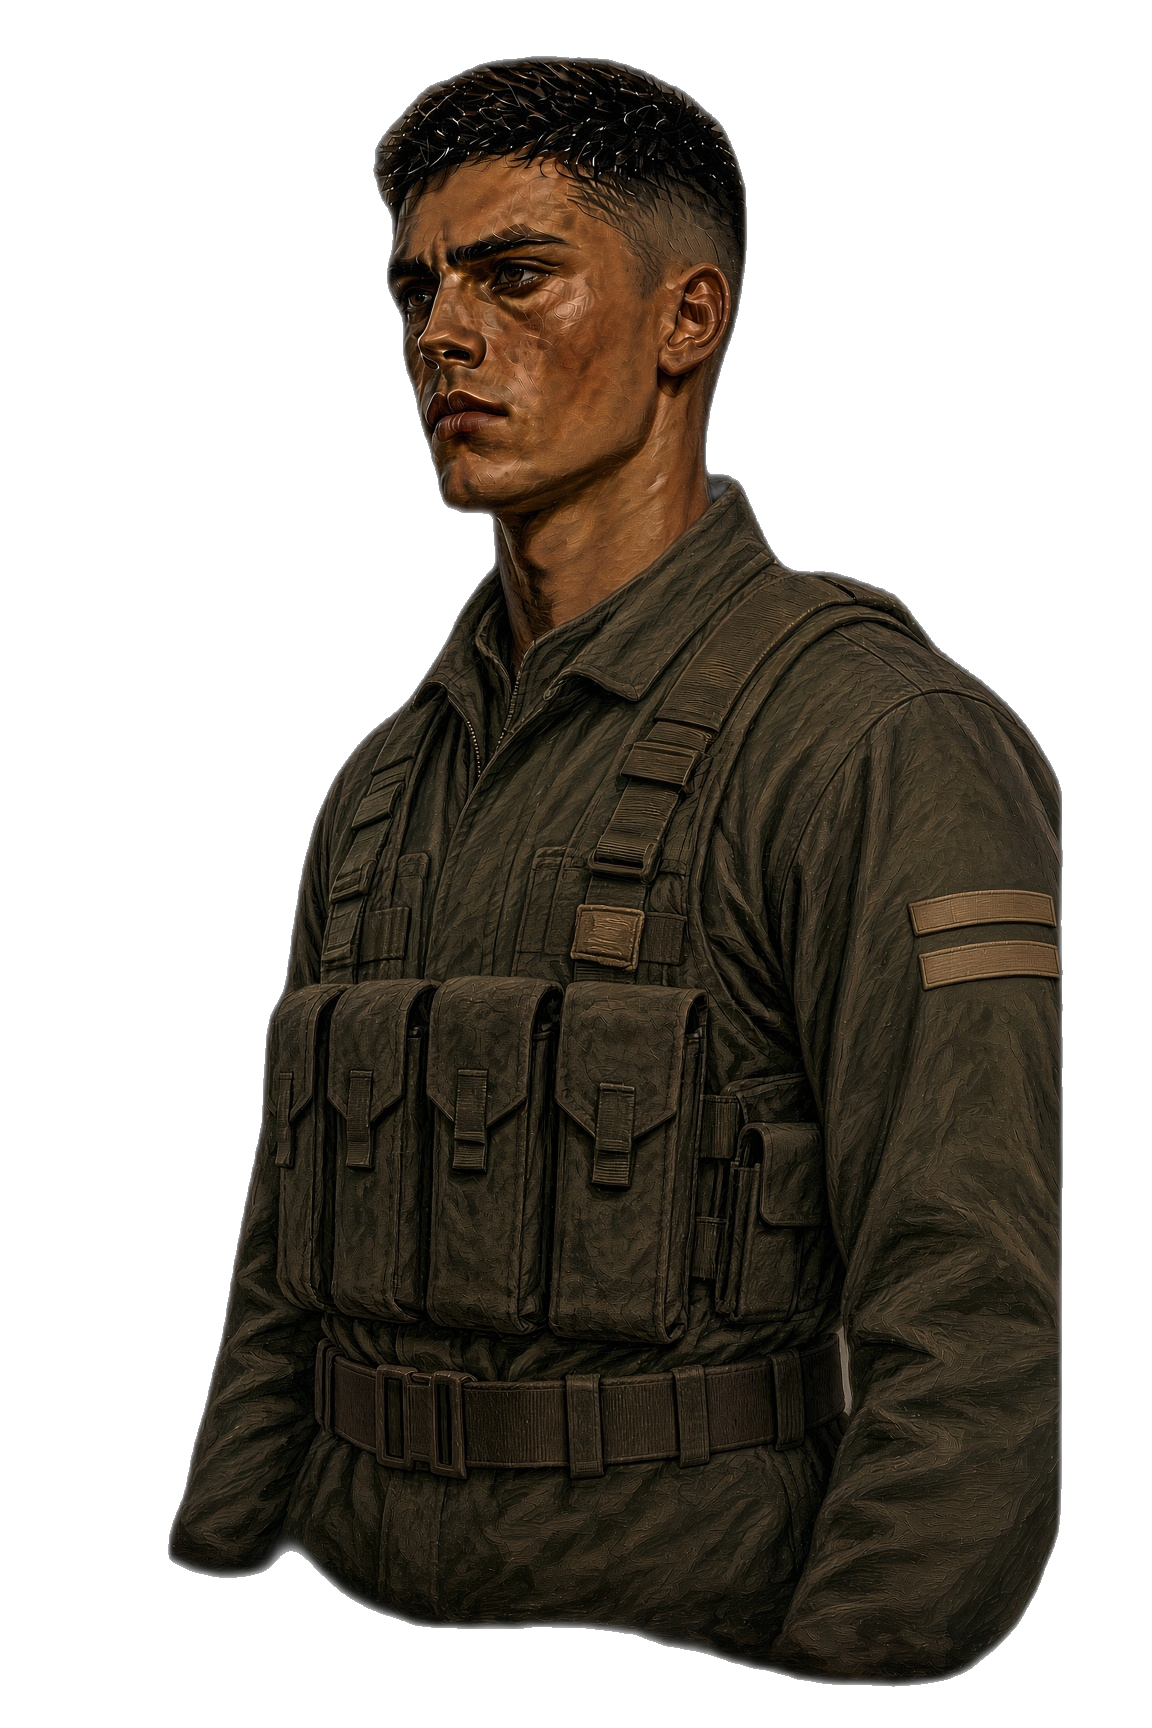
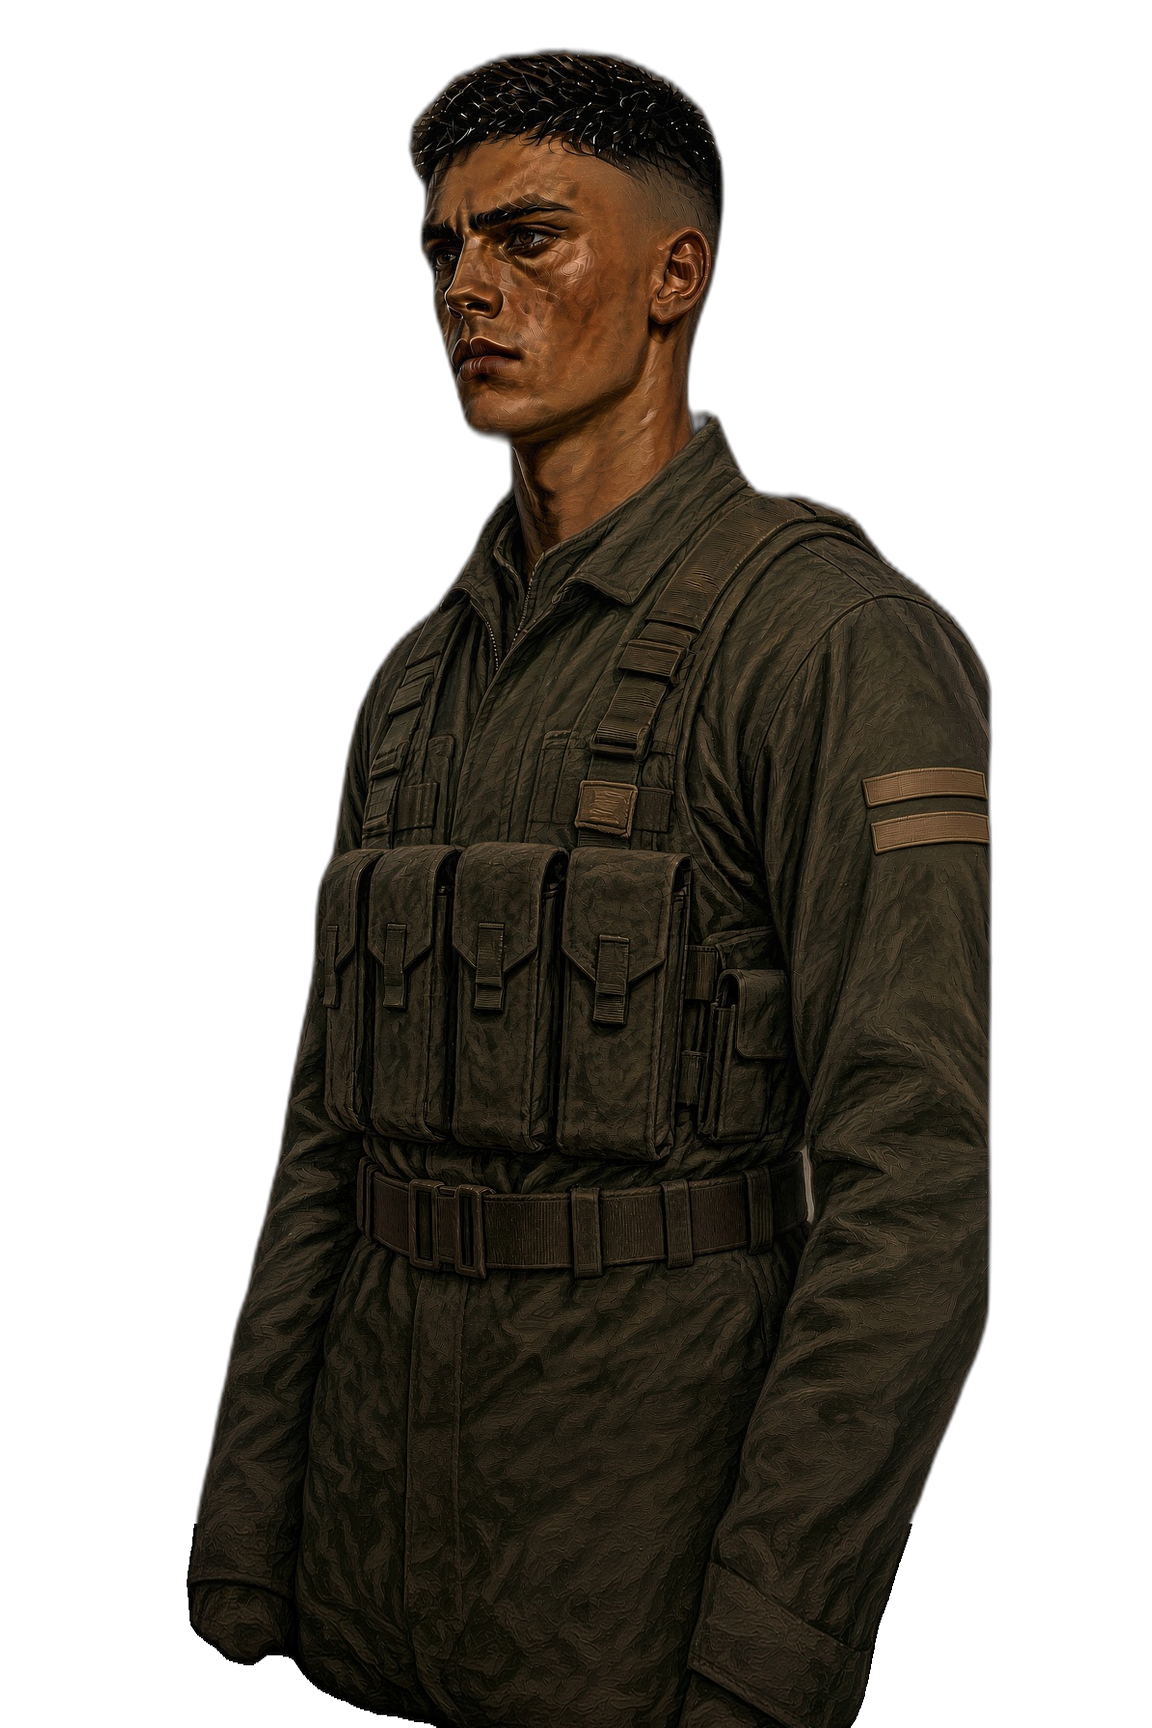
Ossar 1 und Jetzt 1: Jacke bis zum Bildrand.

Changed region(s): [[0.125, 0.0, 0.9375, 1.0]]

diff --git a/Division_Command_0.32c/web/index.html b/Division_Command_0.32c/web/index.html
@@ -614,7 +614,7 @@
   <script src="js/ai/bot.js?v=032d5"></script>
   <script src="js/ui/perf.js?v=030c"></script>
   <script src="js/ui/library.js?v=030n"></script>
-  <script src="js/ui/portraits.js?v=kit18"></script>
+  <script src="js/ui/portraits.js?v=kit19"></script>
   <script src="js/ui/app.js?v=kit2"></script>
   <script src="js/ui/hand-drag.js?v=032d2"></script>
   <script src="js/net.js?v=030c"></script>

diff --git a/Division_Command_0.32c/web/js/ui/portraits.js b/Division_Command_0.32c/web/js/ui/portraits.js
@@ -71,7 +71,7 @@
   };
   var RANK_AGES = 'fhr,lt,olt,hptm,maj,obstlt,obst,bg,genmj,genlt,gen,fm,gfm';
 
-  var VER = '23';
+  var VER = '24';
 
   var FACE_FILE = {
     f01: 'Vael/male/01.png',
